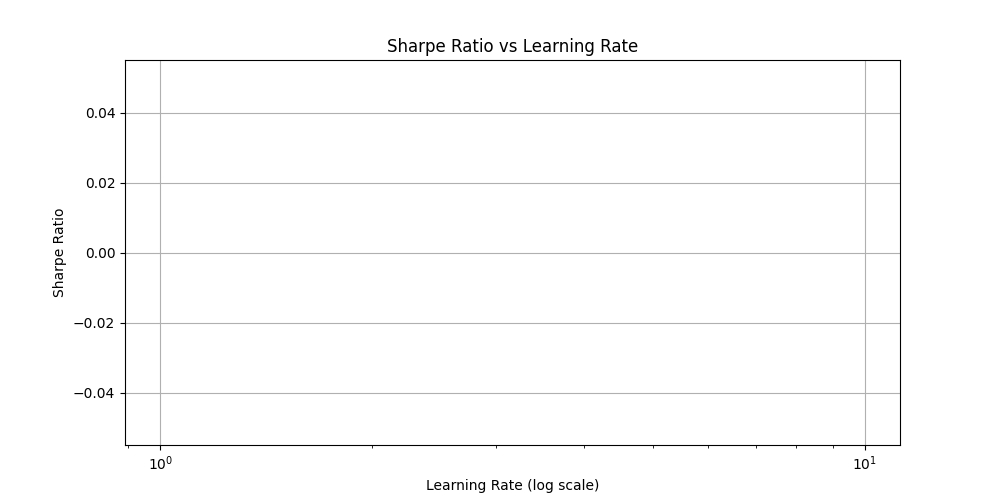
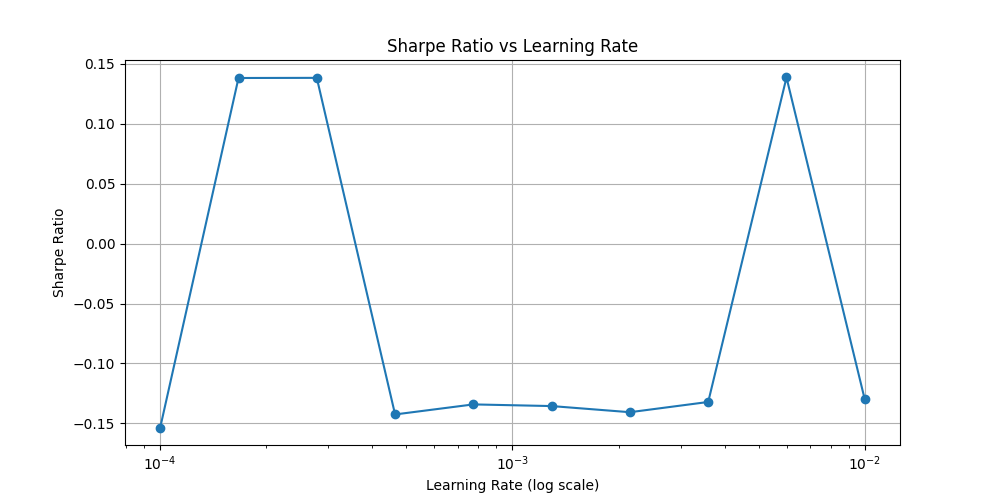
version that works

diff --git a/mlp_julie.py b/mlp_julie.py
@@ -37,9 +37,21 @@ def load_data(filepath):
 def calculate_sharpe_ratio(returns, risk_free_rate=0.0):
     if returns is None or len(returns) == 0:
         return float('nan')  # Handle empty or None returns gracefully
+
+    # Remove NaN values from returns
+    returns = np.array(returns)
+    returns = returns[~np.isnan(returns)]
+
+    if len(returns) == 0:
+        return float('nan')  # Handle case where all returns were NaN
+
     mean_return = np.mean(returns)
     std_return = np.std(returns)
-    return (mean_return - risk_free_rate) / std_return
+
+    if std_return == 0:
+        return float('nan')  # Avoid division by zero if no variation in returns
+
+    return (mean_return / std_return)
 
 
 def main(filepath: str, output_dir: str):
@@ -75,6 +87,9 @@ def main(filepath: str, output_dir: str):
         sharpe_ratio = calculate_sharpe_ratio(returns)
         sharpe_ratios.append(sharpe_ratio)
         learning_rates.append(learning_rate)
+
+        print("Learning Rates:", learning_rates)
+        print("Sharpe Ratios:", sharpe_ratios)
 
     # Plotting
     plt.figure(figsize=(10, 5))

diff --git a/TorchRunner.py b/TorchRunner.py
@@ -99,7 +99,7 @@ class TorchRunner:
         returns.to_pickle(os.path.join(self.output, "returns.pickle"))
         print(f'Sharpe: {returns.mean()/returns.std() * np.sqrt(12)}')
         pd.Series(in_sample_sharpes).to_pickle(os.path.join(self.output, "in_sample_sharpes.pickle"))
-
+        return  returns
     @staticmethod
     def run_epoch(data_iter, model, loss_compute, optimizer):
         start = time.time()
